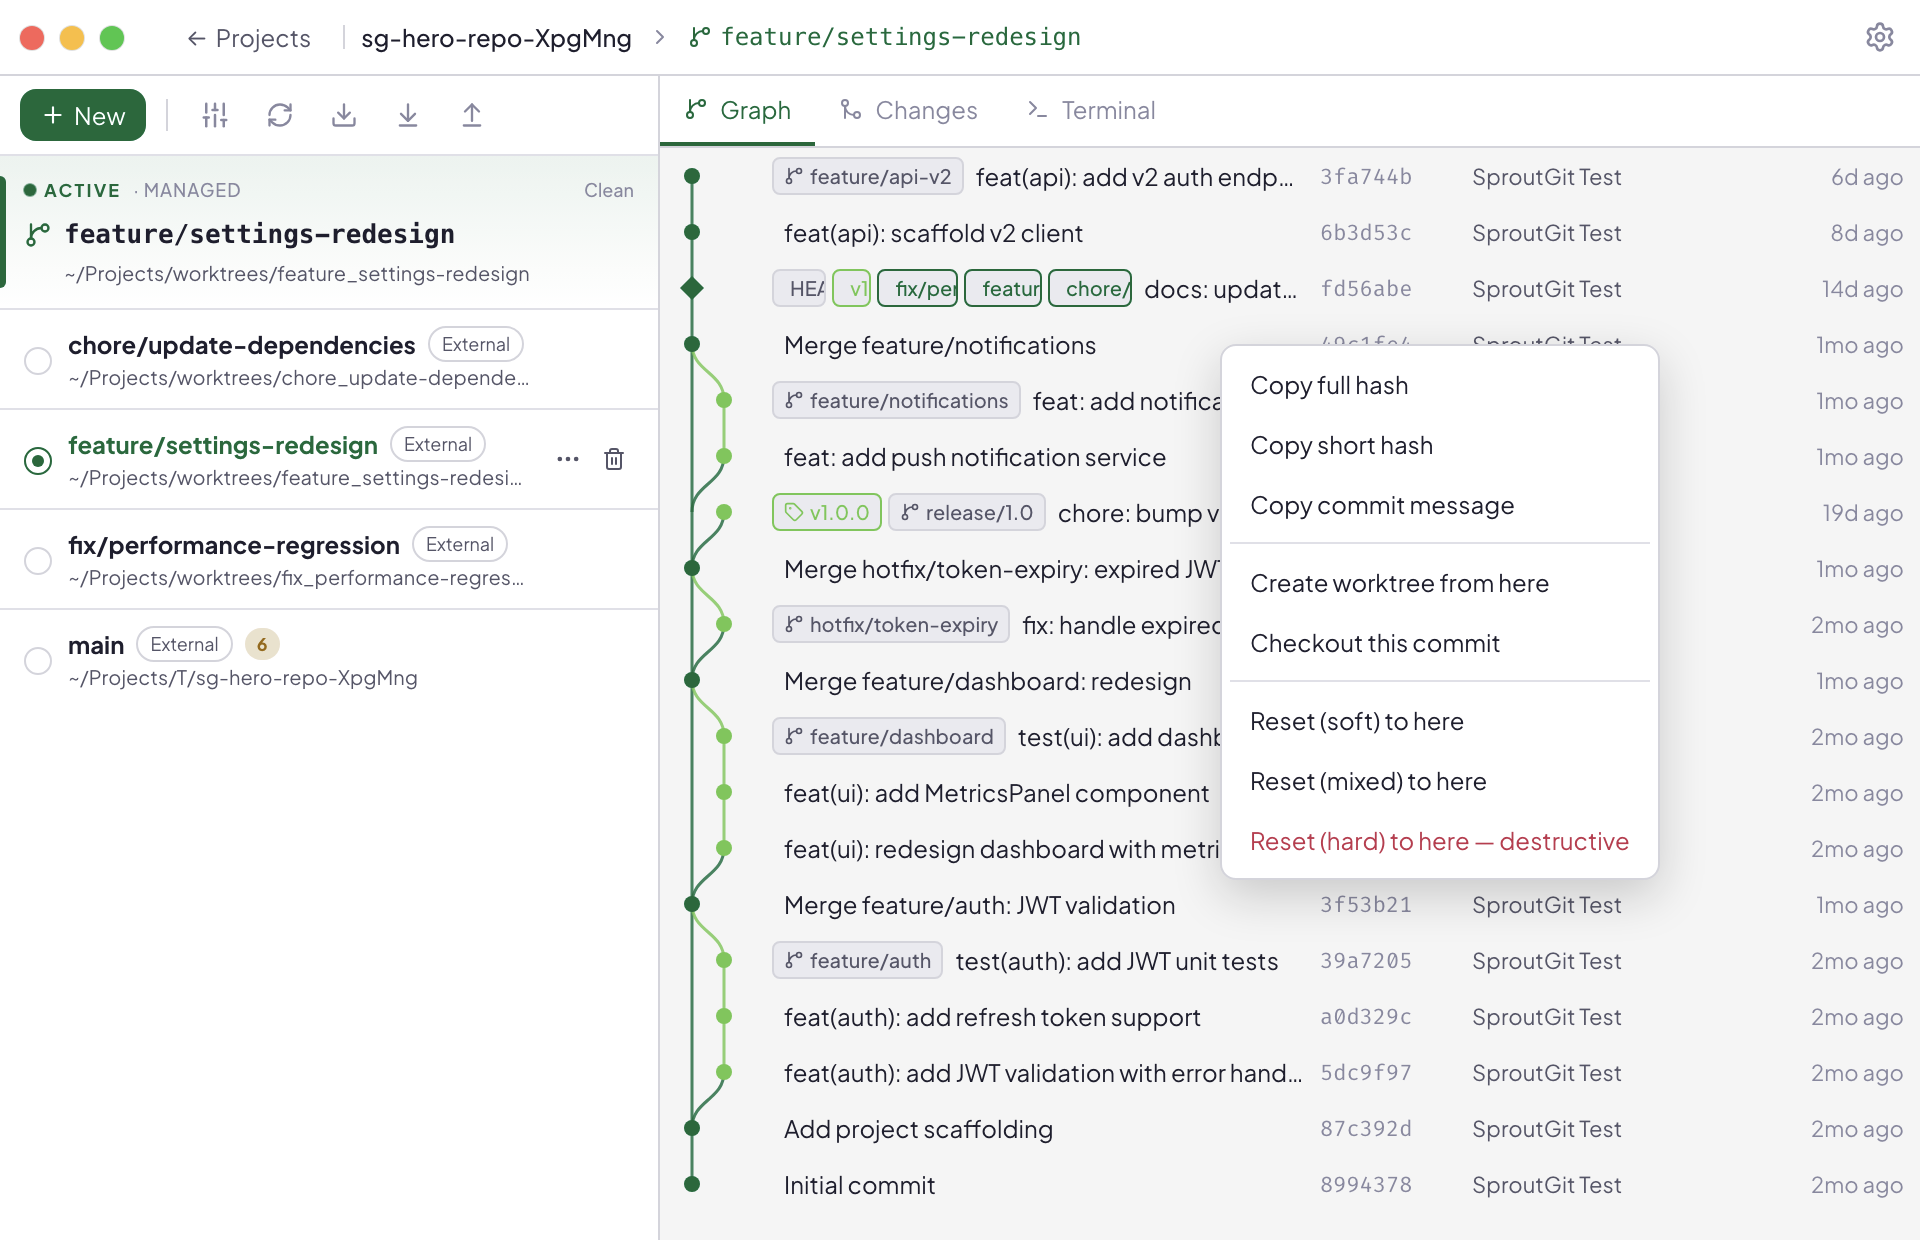
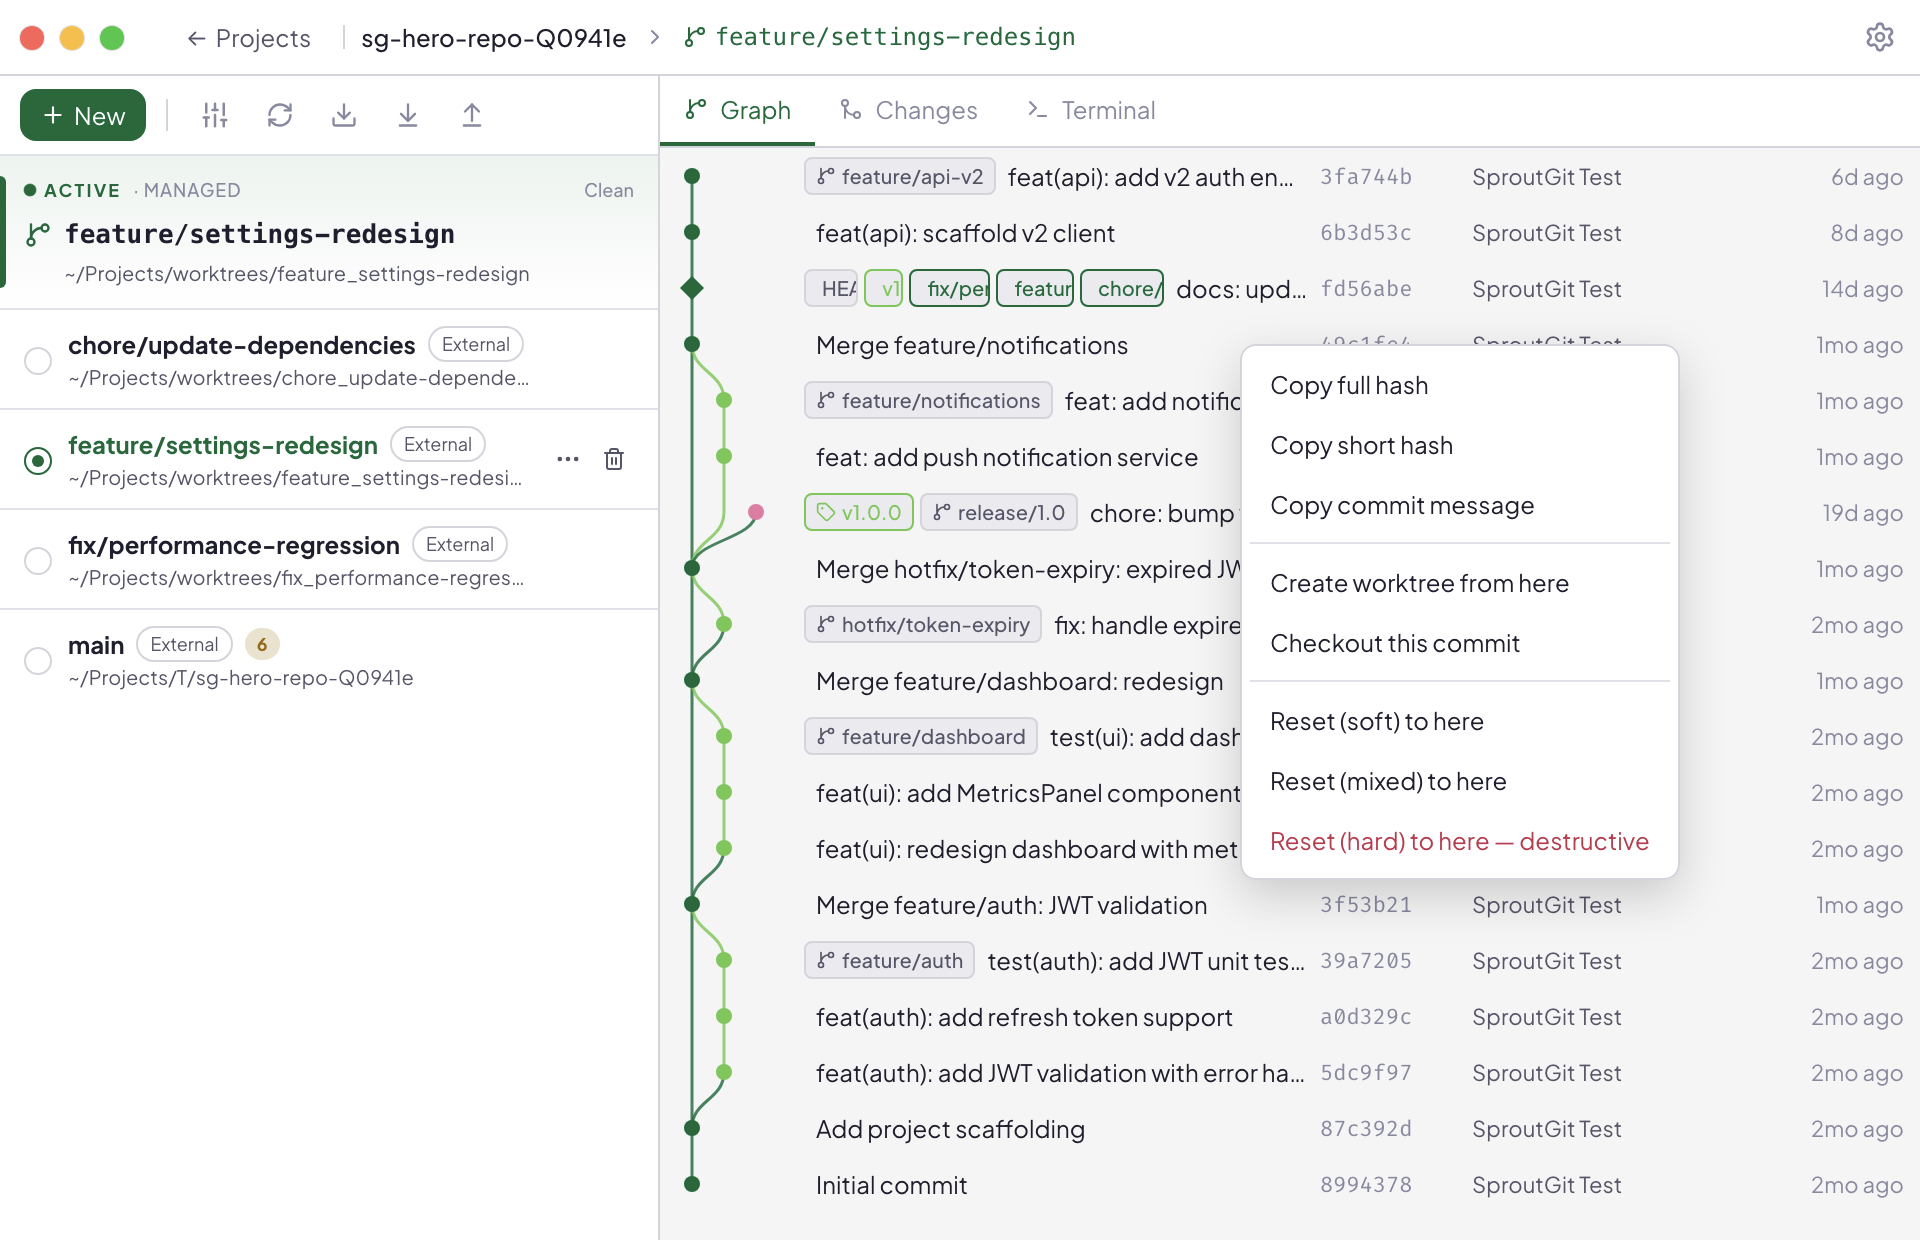
fix(ui): stop commit graph drifting right on older history
Give each child→parent edge its own rail instead of joining the first
rail created for a shared parent. Previously, topo-order emits a merged
branch's commits before the mainline commits above the fork point, so
the feature branch created the fork commit's rail first and main's line
swerved right into it — drifting one lane per merged branch as you
scroll back in time.

Fork-point commits now adopt a lane from their incoming edges with
first-parent edges taking priority (then leftmost), so a long-lived
branch like main holds a single lane while branch lines converge into
the fork row. Adjacent-row edges register their child's lane as a
non-occupying candidate so linear runs stay straight.

Regenerate the mac hero screenshots.

diff --git a/packages/ui/src/components/CommitGraph.tsx b/packages/ui/src/components/CommitGraph.tsx
@@ -46,11 +46,13 @@ export type GraphLayout = {
 };
 
 /**
- * Per-row segment layout. Every child→parent edge travels on a "rail": it
- * bends from the child's lane into the rail within the child's own row band,
- * runs straight down the rail, and the parent node sits on the rail's lane.
- * Children sharing a parent join the same rail, so lines converge instead of
- * stacking overlapping curves. Lane transitions never span more than one row.
+ * Per-row segment layout. Every child→parent edge travels on its own "rail":
+ * it bends from the child's lane into the rail within the child's row band,
+ * runs straight down the rail, and bends into the parent's lane in the final
+ * band. The parent adopts the leftmost incoming rail, so a long-lived branch
+ * (main) keeps one lane instead of drifting toward whichever child happened
+ * to reach the fork point first. Lane transitions never span more than one
+ * row band.
  */
 export function computeGraphLayout(
   commits: CommitEntry[],
@@ -61,8 +63,11 @@ export function computeGraphLayout(
   const hashToIdx = new Map<string, number>();
   commits.forEach((c, i) => hashToIdx.set(c.hash, i));
 
-  // One rail per pending parent hash → the lane its edges occupy in transit.
-  const rails = new Map<string, number>();
+  // Incoming lines in flight, indexed by target parent hash. A parent forked
+  // into several children carries one entry per child edge. Adjacent-row
+  // edges register their child's lane as a candidate without occupying it.
+  type Incoming = { lane: number; firstParent: boolean; occupies: boolean };
+  const railsByParent = new Map<string, Incoming[]>();
   const laneOccupied: boolean[] = [];
 
   function allocLane(minLane: number): number {
@@ -72,7 +77,19 @@ export function computeGraphLayout(
     return Math.max(laneOccupied.length, minLane);
   }
 
-  type Edge = { childRow: number; childLane: number; rail: number; parentHash: string };
+  function registerIncoming(parentHash: string, entry: Incoming): void {
+    const list = railsByParent.get(parentHash);
+    if (list) list.push(entry);
+    else railsByParent.set(parentHash, [entry]);
+  }
+
+  type Edge = {
+    childRow: number;
+    childLane: number;
+    /** Transit lane; null for adjacent-row edges that bend directly. */
+    rail: number | null;
+    parentHash: string;
+  };
   const edges: Edge[] = [];
   const rows: LaneCommit[] = [];
   let maxLane = 0;
@@ -80,24 +97,41 @@ export function computeGraphLayout(
   for (let i = 0; i < commits.length; i++) {
     const commit = commits[i]!;
 
-    // The commit lands on its incoming rail's lane; tips open a fresh lane.
+    // Adopt a lane from the incoming lines: first-parent edges take priority
+    // (so a long-lived branch keeps one lane through merges and forks), then
+    // leftmost wins. Non-occupying candidates are only valid if their lane
+    // isn't taken by a passing rail. Tips open a fresh lane.
+    const incoming = railsByParent.get(commit.hash) ?? [];
+    railsByParent.delete(commit.hash);
+    const candidates = incoming.filter(c => c.occupies || !laneOccupied[c.lane]);
     let lane: number;
-    const incomingRail = rails.get(commit.hash);
-    if (incomingRail !== undefined) {
-      lane = incomingRail;
-      rails.delete(commit.hash);
-      laneOccupied[lane] = false;
+    if (candidates.length > 0) {
+      let best = candidates[0]!;
+      for (const c of candidates) {
+        if (
+          (c.firstParent && !best.firstParent) ||
+          (c.firstParent === best.firstParent && c.lane < best.lane)
+        ) {
+          best = c;
+        }
+      }
+      lane = best.lane;
     } else {
       lane = allocLane(0);
+    }
+    for (const c of incoming) {
+      if (c.occupies) laneOccupied[c.lane] = false;
     }
     if (lane > maxLane) maxLane = lane;
 
     for (let p = 0; p < commit.parents.length; p++) {
       const parentHash = commit.parents[p]!;
-      if (!hashToIdx.has(parentHash)) continue; // parent beyond the loaded window
-      const existing = rails.get(parentHash);
-      if (existing !== undefined) {
-        edges.push({ childRow: i, childLane: lane, rail: existing, parentHash });
+      const parentRow = hashToIdx.get(parentHash);
+      if (parentRow === undefined) continue; // parent beyond the loaded window
+      if (parentRow === i + 1) {
+        // Adjacent rows — the edge is a single bend, no transit lane needed.
+        edges.push({ childRow: i, childLane: lane, rail: null, parentHash });
+        registerIncoming(parentHash, { lane, firstParent: p === 0, occupies: false });
         continue;
       }
       // First parent continues in the commit's own lane; other parents branch
@@ -105,7 +139,7 @@ export function computeGraphLayout(
       const railLane =
         p === 0 && !laneOccupied[lane] ? lane : allocLane(lane + 1);
       laneOccupied[railLane] = true;
-      rails.set(parentHash, railLane);
+      registerIncoming(parentHash, { lane: railLane, firstParent: p === 0, occupies: true });
       if (railLane > maxLane) maxLane = railLane;
       edges.push({ childRow: i, childLane: lane, rail: railLane, parentHash });
     }
@@ -114,20 +148,22 @@ export function computeGraphLayout(
     rows.push({ ...commit, lane, y: i * ROW_H + ROW_H / 2, worktreeBranch: wtBranch });
   }
 
-  // Rasterise edges into per-gap segments. Edges sharing a rail produce
-  // identical straight pieces — dedupe so each is drawn once.
+  // Rasterise edges into per-gap segments, deduping identical pieces.
   const gapCount = commits.length - 1;
   const gapSegments: GapSegment[][] = Array.from({ length: gapCount }, () => []);
   const seen = new Set<string>();
 
   for (const edge of edges) {
     const parentRow = hashToIdx.get(edge.parentHash)!;
+    const parentLane = rows[parentRow]!.lane;
+    const rail = edge.rail ?? parentLane;
     for (let g = edge.childRow; g < parentRow && g < gapCount; g++) {
-      const fromLane = g === edge.childRow ? edge.childLane : edge.rail;
-      const key = `${g}:${fromLane}:${edge.rail}`;
+      const fromLane = g === edge.childRow ? edge.childLane : rail;
+      const toLane = g === parentRow - 1 ? parentLane : rail;
+      const key = `${g}:${fromLane}:${toLane}`;
       if (seen.has(key)) continue;
       seen.add(key);
-      gapSegments[g]!.push({ fromLane, toLane: edge.rail, railLane: edge.rail });
+      gapSegments[g]!.push({ fromLane, toLane, railLane: rail });
     }
   }
 

diff --git a/packages/ui/src/__tests__/commit-graph-layout.test.ts b/packages/ui/src/__tests__/commit-graph-layout.test.ts
@@ -56,6 +56,24 @@ describe('computeGraphLayout', () => {
     expect(gapSegments[2]).toContainEqual({ fromLane: 1, toLane: 0, railLane: 0 });
   });
 
+  it('keeps main in its lane when a feature branch reaches the fork point first', () => {
+    // topo-order emits the merged branch right after the merge commit:
+    // m → [a, f1]; f1 → f2 → c; a → c  (c is the fork point on main)
+    const { rows } = layout([
+      commit('m', ['a', 'f1']),
+      commit('f1', ['f2']),
+      commit('f2', ['c']),
+      commit('a', ['c']),
+      commit('c', []),
+    ]);
+    const byHash = Object.fromEntries(rows.map(r => [r.hash, r]));
+    expect(byHash['m']!.lane).toBe(0);
+    expect(byHash['a']!.lane).toBe(0);
+    expect(byHash['c']!.lane).toBe(0); // fork point stays on main's lane
+    expect(byHash['f1']!.lane).toBe(1);
+    expect(byHash['f2']!.lane).toBe(1);
+  });
+
   it('never emits a segment spanning more than one row band', () => {
     // Interleaved branches to force long-lived rails.
     const commits = [
